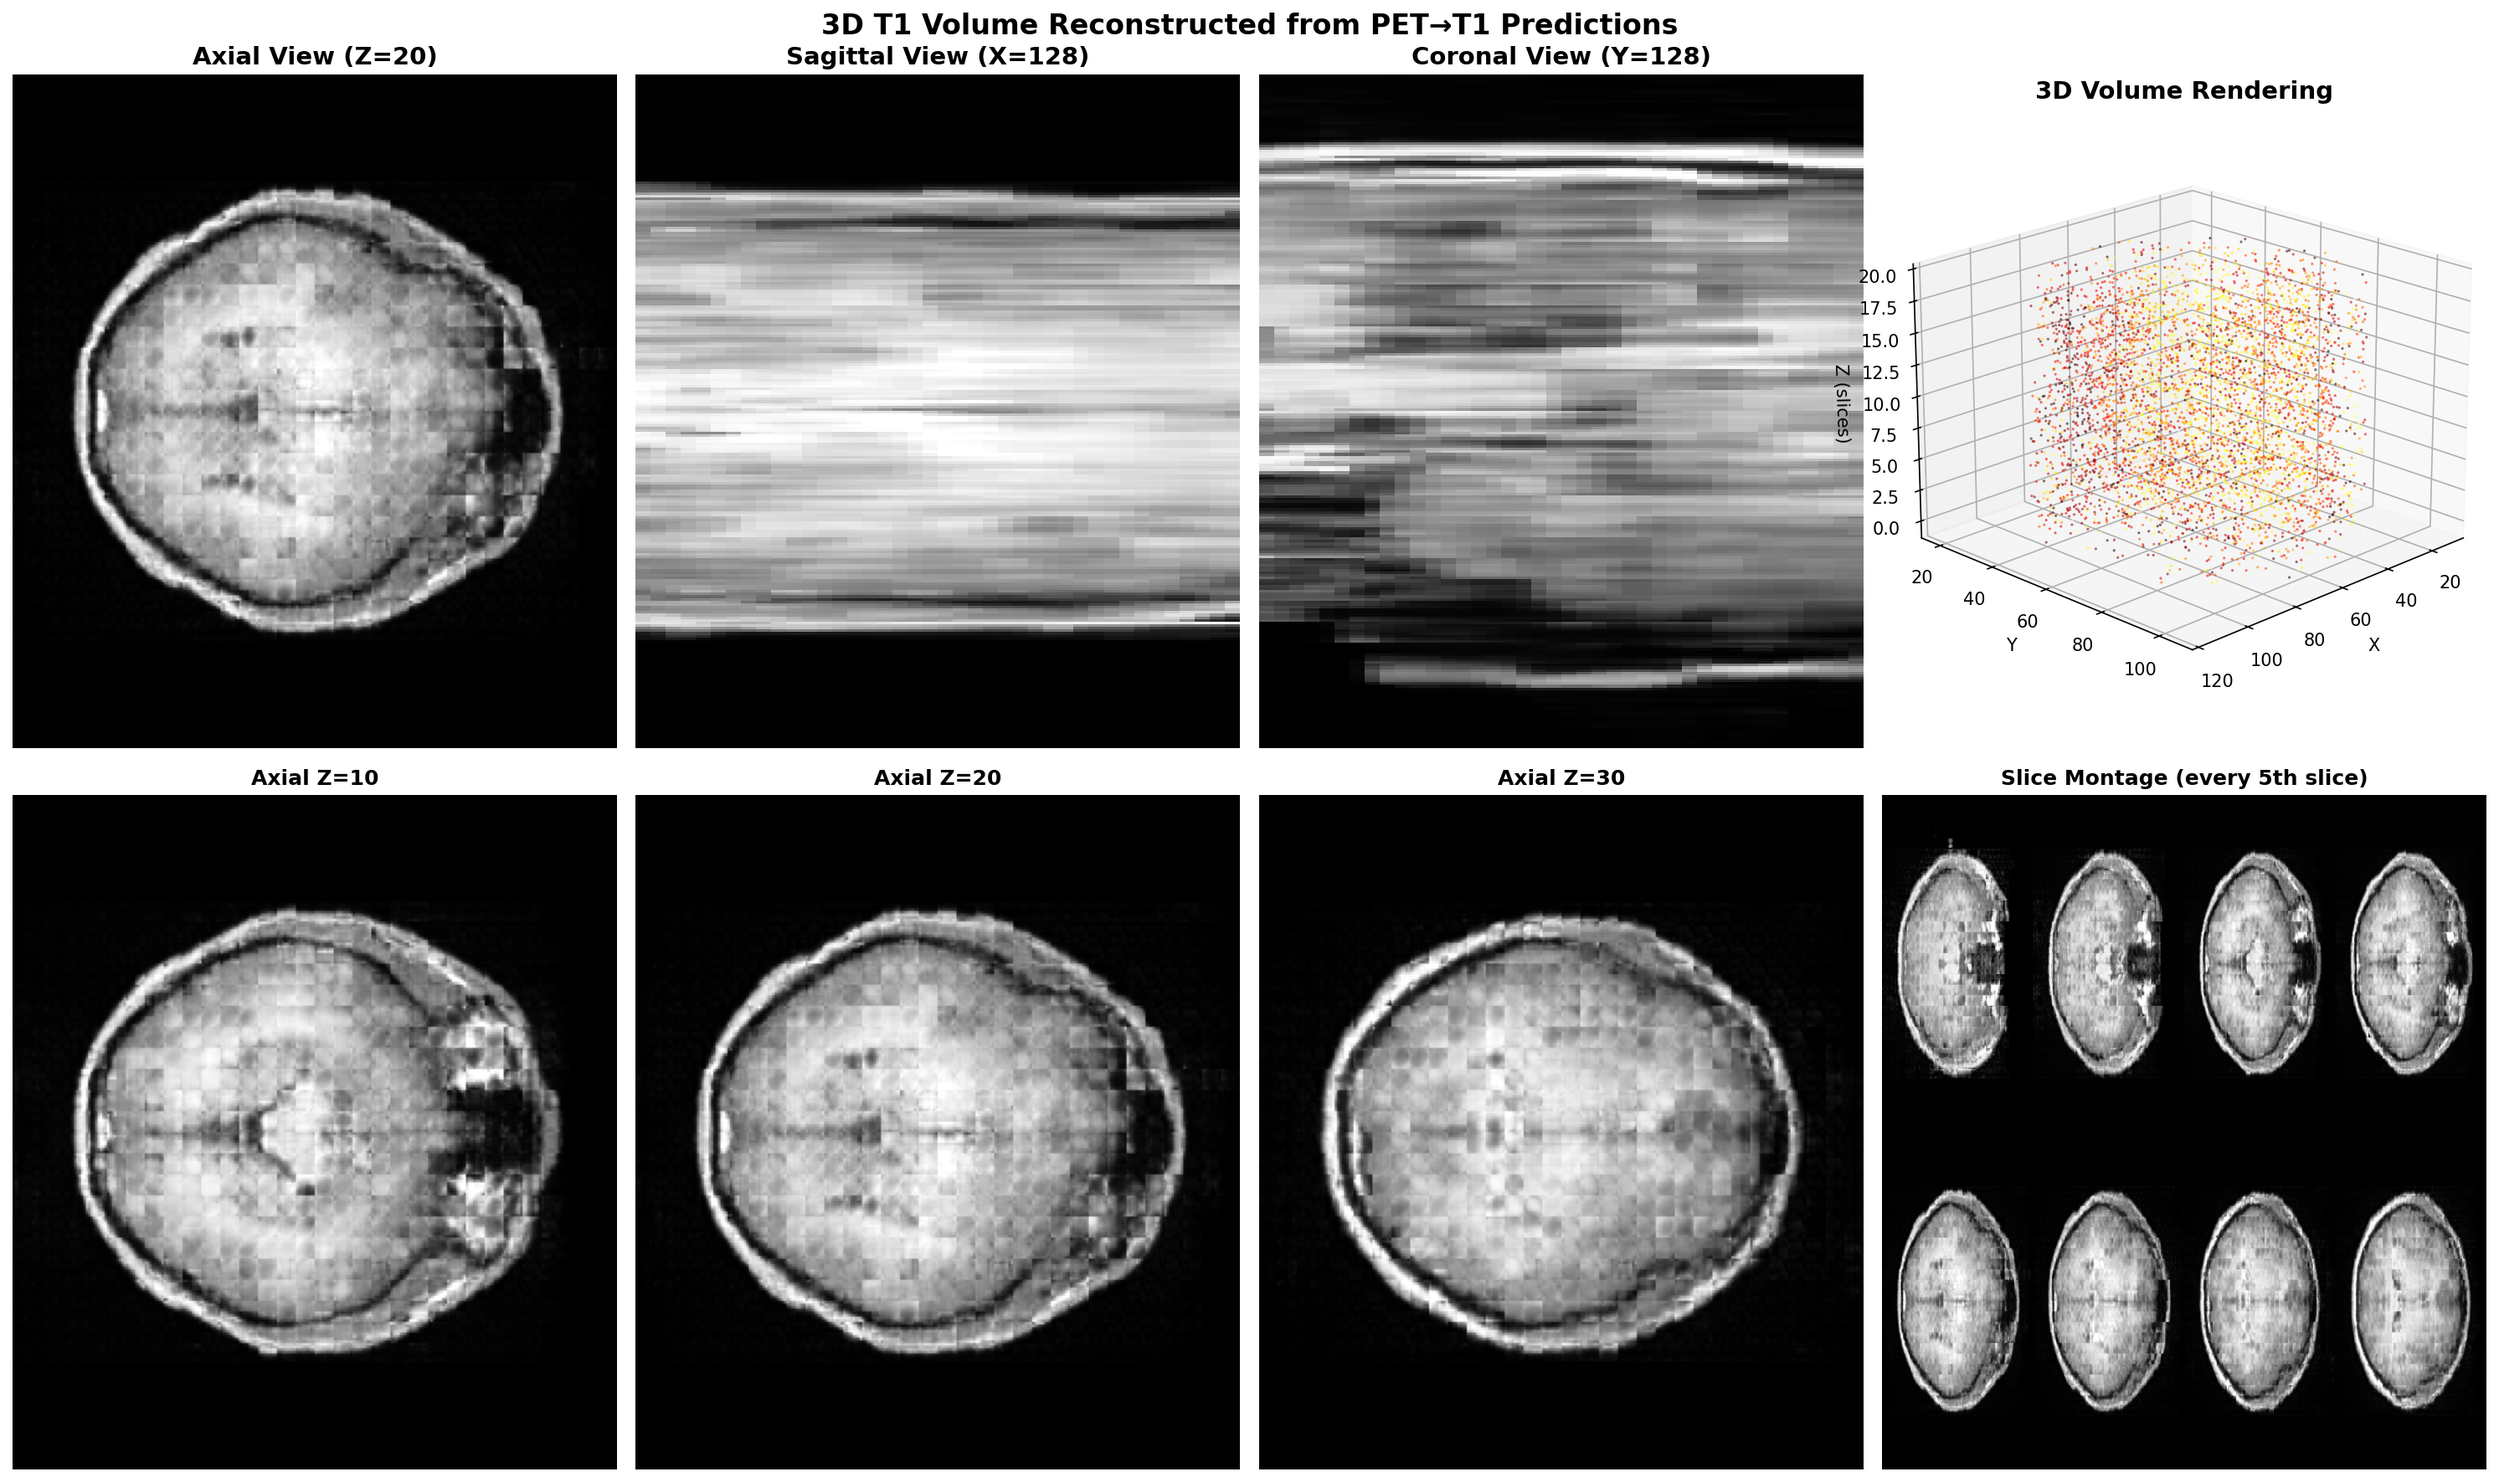
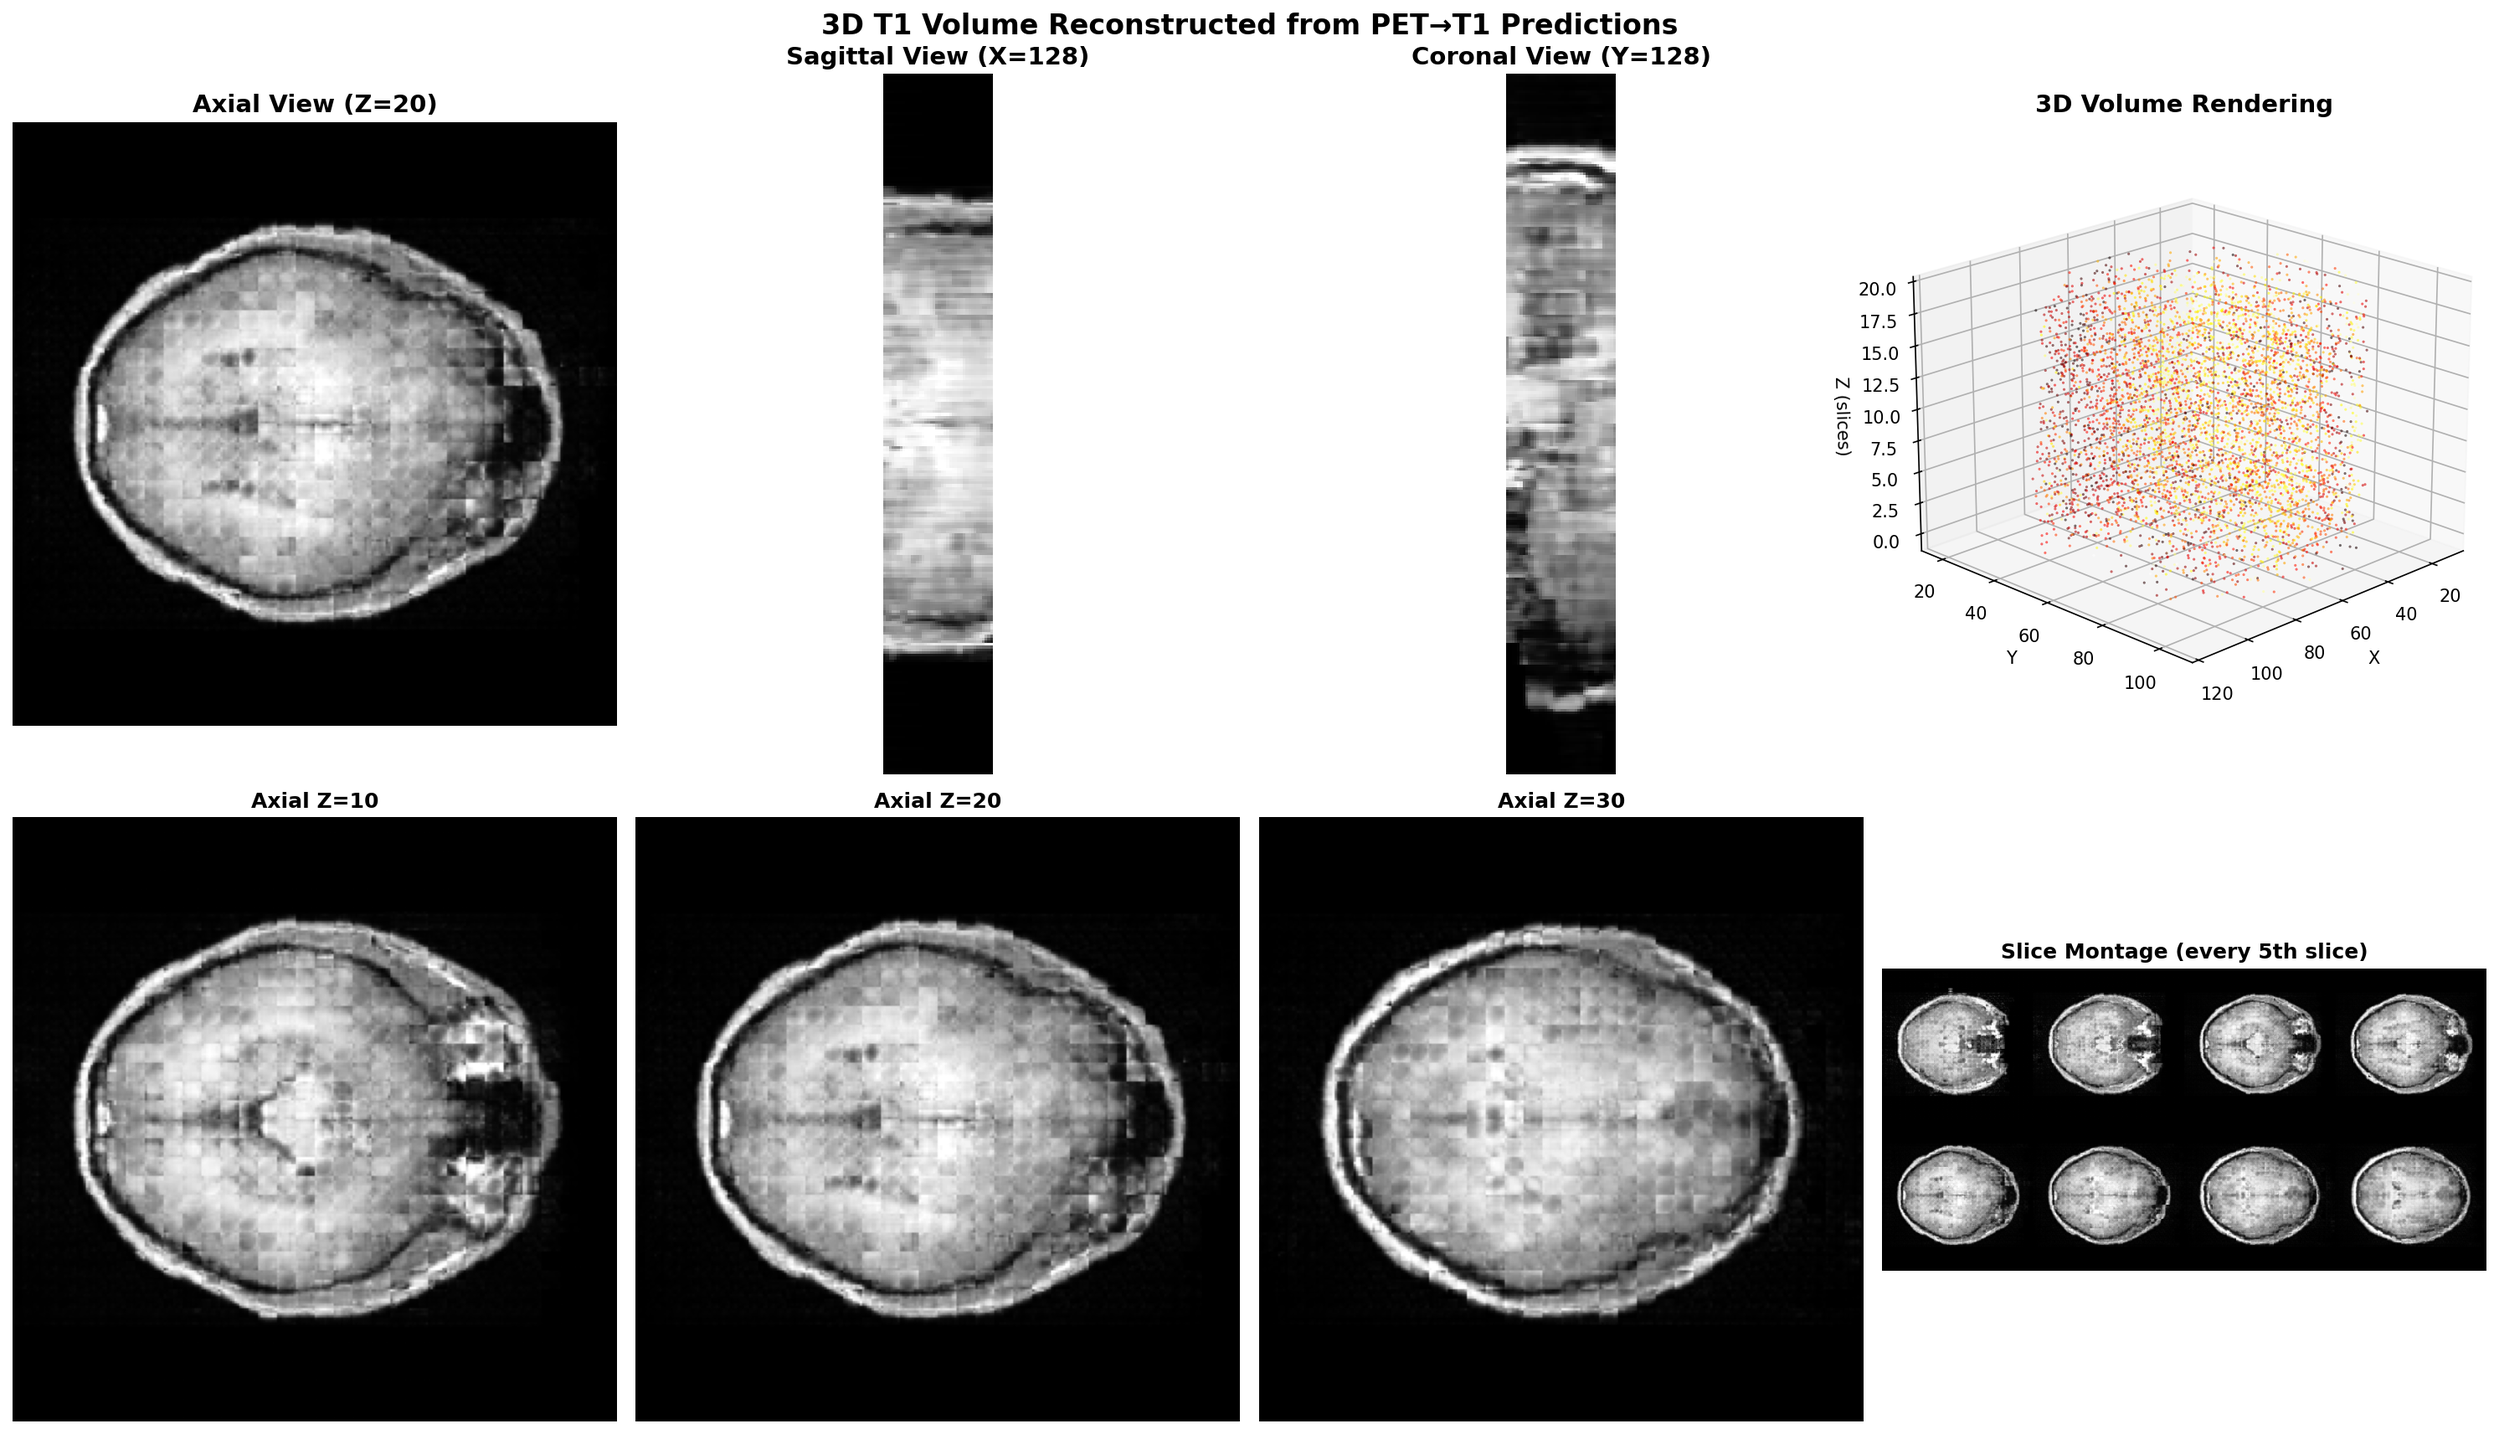
Fix aspect ratio in 3D volume visualization
Changed all imshow aspect ratios from 'auto' to 'equal' to prevent
slice stretching. The visualization now displays slices with correct
proportions matching the actual 256×256 pixel dimensions.

🤖 Generated with [Claude Code](https://claude.com/claude-code)

diff --git a/scripts/visualize_3d_volume.py b/scripts/visualize_3d_volume.py
@@ -30,21 +30,21 @@ def create_3d_visualization(nifti_path, output_path):
     # 1. Axial view (top-down)
     ax1 = plt.subplot(2, 4, 1)
     axial = volume[z_mid, :, :]
-    ax1.imshow(axial, cmap='gray', aspect='auto', vmin=0, vmax=1)
+    ax1.imshow(axial, cmap='gray', aspect='equal', vmin=0, vmax=1)
     ax1.set_title(f'Axial View (Z={z_mid})', fontsize=14, fontweight='bold')
     ax1.axis('off')
 
     # 2. Sagittal view (side)
     ax2 = plt.subplot(2, 4, 2)
     sagittal = volume[:, :, x_mid]
-    ax2.imshow(sagittal.T, cmap='gray', aspect='auto', vmin=0, vmax=1)
+    ax2.imshow(sagittal.T, cmap='gray', aspect='equal', vmin=0, vmax=1)
     ax2.set_title(f'Sagittal View (X={x_mid})', fontsize=14, fontweight='bold')
     ax2.axis('off')
 
     # 3. Coronal view (front)
     ax3 = plt.subplot(2, 4, 3)
     coronal = volume[:, y_mid, :]
-    ax3.imshow(coronal.T, cmap='gray', aspect='auto', vmin=0, vmax=1)
+    ax3.imshow(coronal.T, cmap='gray', aspect='equal', vmin=0, vmax=1)
     ax3.set_title(f'Coronal View (Y={y_mid})', fontsize=14, fontweight='bold')
     ax3.axis('off')
 
@@ -82,7 +82,7 @@ def create_3d_visualization(nifti_path, output_path):
         ax = plt.subplot(2, 4, 5 + i)
         if z_pos < volume.shape[0]:
             slice_img = volume[z_pos, :, :]
-            ax.imshow(slice_img, cmap='gray', aspect='auto', vmin=0, vmax=1)
+            ax.imshow(slice_img, cmap='gray', aspect='equal', vmin=0, vmax=1)
             ax.set_title(f'Axial Z={z_pos}', fontsize=12, fontweight='bold')
             ax.axis('off')
 
@@ -110,7 +110,7 @@ def create_3d_visualization(nifti_path, output_path):
         rows.append(row)
     montage = np.concatenate(rows, axis=0)
 
-    ax8.imshow(montage, cmap='gray', aspect='auto', vmin=0, vmax=1)
+    ax8.imshow(montage, cmap='gray', aspect='equal', vmin=0, vmax=1)
     ax8.set_title('Slice Montage (every 5th slice)', fontsize=12, fontweight='bold')
     ax8.axis('off')
 
